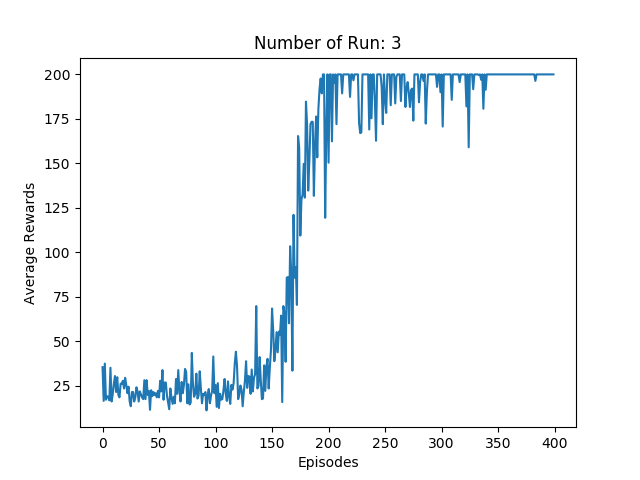
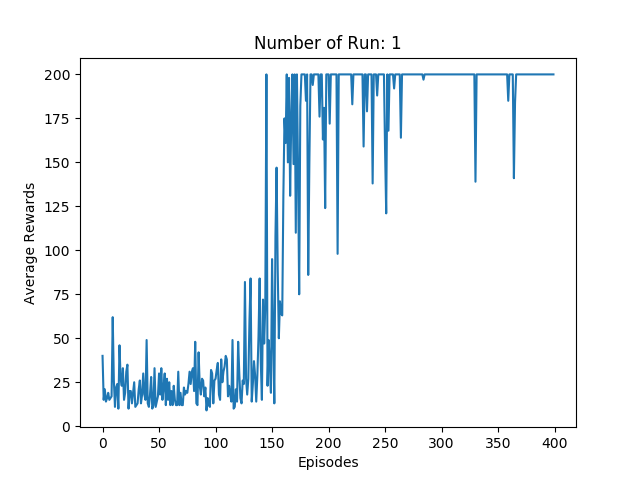
modify the reward function for cartpole

diff --git a/tensorforce/execution/runner.py b/tensorforce/execution/runner.py
@@ -23,121 +23,126 @@ from six.moves import xrange
 
 
 class Runner(object):
-    """
-    Simple runner for non-realtime single-process execution.
-    """
+	"""
+	Simple runner for non-realtime single-process execution.
+	"""
 
-    def __init__(self, agent, environment, repeat_actions=1, history=None):
-        """
-        Initialize a Runner object.
+	def __init__(self, agent, environment, repeat_actions=1, history=None):
+		"""
+		Initialize a Runner object.
 
-        Args:
-            agent:
-            environment:
-            repeat_actions:
-        """
-        self.agent = agent
-        self.environment = environment
-        self.repeat_actions = repeat_actions
+		Args:
+			agent:
+			environment:
+			repeat_actions:
+		"""
+		self.agent = agent
+		self.environment = environment
+		self.repeat_actions = repeat_actions
 
-        self.reset(history)
+		self.reset(history)
 
-    def reset(self, history=None):
-        # If history is empty, use default values in history.get().
-        if not history:
-            history = dict()
+	def reset(self, history=None):
+		# If history is empty, use default values in history.get().
+		if not history:
+			history = dict()
 
-        self.episode_rewards = history.get('episode_rewards', list())
-        self.episode_timesteps = history.get('episode_timesteps', list())
-        self.episode_times = history.get('episode_times', list())
+		self.episode_rewards = history.get('episode_rewards', list())
+		self.episode_timesteps = history.get('episode_timesteps', list())
+		self.episode_times = history.get('episode_times', list())
 
-    def run(
-        self,
-        timesteps=None,
-        episodes=None,
-        max_episode_timesteps=None,
-        deterministic=False,
-        episode_finished=None
-    ):
-        """
-        Runs the agent on the environment.
+	def run(
+		self,
+		timesteps=None,
+		episodes=None,
+		max_episode_timesteps=None,
+		deterministic=False,
+		episode_finished=None,
+		modify_rewards=False
+	):
+		"""
+		Runs the agent on the environment.
 
-        Args:
-            timesteps: Number of timesteps
-            episodes: Number of episodes
-            max_episode_timesteps: Max number of timesteps per episode
-            deterministic: Deterministic flag
-            episode_finished: Function handler taking a `Runner` argument and returning a boolean indicating
-                whether to continue execution. For instance, useful for reporting intermediate performance or
-                integrating termination conditions.
-        """
+		Args:
+			timesteps: Number of timesteps
+			episodes: Number of episodes
+			max_episode_timesteps: Max number of timesteps per episode
+			deterministic: Deterministic flag
+			episode_finished: Function handler taking a `Runner` argument and returning a boolean indicating
+				whether to continue execution. For instance, useful for reporting intermediate performance or
+				integrating termination conditions.
+		"""
 
-        # Keep track of episode reward and episode length for statistics.
-        self.start_time = time.time()
+		# Keep track of episode reward and episode length for statistics.
+		self.start_time = time.time()
 
-        self.agent.reset()
+		self.agent.reset()
 
-        self.episode = self.agent.episode
-        if episodes is not None:
-            episodes += self.agent.episode
+		self.episode = self.agent.episode
+		if episodes is not None:
+			episodes += self.agent.episode
 
-        self.timestep = self.agent.timestep
-        if timesteps is not None:
-            timesteps += self.agent.timestep
+		self.timestep = self.agent.timestep
+		if timesteps is not None:
+			timesteps += self.agent.timestep
 
-        while True:
-            episode_start_time = time.time()
+		while True:
+			episode_start_time = time.time()
 
-            self.agent.reset()
-            state = self.environment.reset()
-            episode_reward = 0
-            self.episode_timestep = 0
+			self.agent.reset()
+			state = self.environment.reset()
+			episode_reward = 0
+			self.episode_timestep = 0
 
-            while True:
-                action = self.agent.act(states=state, deterministic=deterministic)
+			while True:
+				action = self.agent.act(states=state, deterministic=deterministic)
 
-                if self.repeat_actions > 1:
-                    reward = 0
-                    for repeat in xrange(self.repeat_actions):
-                        state, terminal, step_reward = self.environment.execute(actions=action)
-                        reward += step_reward
-                        if terminal:
-                            break
-                else:
-                    state, terminal, reward = self.environment.execute(actions=action)
+				if self.repeat_actions > 1:
+					reward = 0
+					for repeat in xrange(self.repeat_actions):
+						state, terminal, step_reward = self.environment.execute(actions=action)
+						reward += step_reward
+						if terminal:
+							break
+				else:
+					state, terminal, reward = self.environment.execute(actions=action)
 
-                    # modify reward function for cartpole-v0
-                    x, _, theta, _ = state
-                    r1 = (2.4 - abs(x)) / 2.4 - 0.8
-                    r2 = (0.20944 - abs(theta)) / 0.20944 - 0.5
-                    reward_cont = r1 + r2
+					# modify reward function for cartpole-v0
+					if modify_rewards:
+						x, _, theta, _ = state
+						r1 = (2.4 - abs(x)) / 2.4 - 0.8
+						r2 = (0.20944 - abs(theta)) / 0.20944 - 0.5
+						reward_cont = r1 + r2
 
-                if max_episode_timesteps is not None and self.episode_timestep >= max_episode_timesteps - 1:
-                    terminal = True
+				if max_episode_timesteps is not None and self.episode_timestep >= max_episode_timesteps - 1:
+					terminal = True
 
-                self.agent.observe(terminal=terminal, reward=reward_cont)
+				if modify_rewards:
+					self.agent.observe(terminal=terminal, reward=reward_cont)
+				else:
+					self.agent.observe(terminal=terminal, reward=reward)
 
-                self.episode_timestep += 1
-                self.timestep += 1
-                episode_reward += reward
+				self.episode_timestep += 1
+				self.timestep += 1
+				episode_reward += reward
 
-                if terminal or self.agent.should_stop():  # TODO: should_stop also termina?
-                    break
+				if terminal or self.agent.should_stop():  # TODO: should_stop also termina?
+					break
 
-            time_passed = time.time() - episode_start_time
+			time_passed = time.time() - episode_start_time
 
-            self.episode_rewards.append(episode_reward)
-            self.episode_timesteps.append(self.episode_timestep)
-            self.episode_times.append(time_passed)
+			self.episode_rewards.append(episode_reward)
+			self.episode_timesteps.append(self.episode_timestep)
+			self.episode_times.append(time_passed)
 
-            self.episode += 1
+			self.episode += 1
 
-            if episode_finished and not episode_finished(self) or \
-                    (episodes is not None and self.agent.episode >= episodes) or \
-                    (timesteps is not None and self.agent.timestep >= timesteps) or \
-                    self.agent.should_stop():
-                # agent.episode / agent.timestep are globally updated
-                break
+			if episode_finished and not episode_finished(self) or \
+					(episodes is not None and self.agent.episode >= episodes) or \
+					(timesteps is not None and self.agent.timestep >= timesteps) or \
+					self.agent.should_stop():
+				# agent.episode / agent.timestep are globally updated
+				break
 
-        self.agent.close()
-        self.environment.close()
+		self.agent.close()
+		self.environment.close()

diff --git a/quickstart_ddqn.py b/quickstart_ddqn.py
@@ -27,7 +27,7 @@ os.environ['CUDA_VISIBLE_DEVICES'] = ""
 
 max_episodes = 400
 max_timesteps = 200
-num_of_runs = 3
+num_of_runs = 5
 cur_rwd = []
 aver_rwd = np.array((max_episodes, ))
 
@@ -96,7 +96,7 @@ for run_no in range(1, num_of_runs+1):
 		return True
 
 	# Start learning
-	runner.run(episodes=max_episodes, max_episode_timesteps=max_timesteps, episode_finished=episode_finished)
+	runner.run(episodes=max_episodes, max_episode_timesteps=max_timesteps, episode_finished=episode_finished, modify_rewards=True)
 
 	# Print statistics
 	print("Learning finished. Total episodes: {ep}. Average reward of last 100 episodes: {ar}.".format(
@@ -116,6 +116,6 @@ ax.plot(range(len(aver_rwd)), list(aver_rwd))
 ax.set_title('Number of Run: ' + str(num_of_runs))
 ax.set_xlabel('Episodes')
 ax.set_ylabel('Average Rewards')
-fig.savefig('/Users/txzhao/Desktop/thesis/tensorforce/figs/result.png')
+fig.savefig('/Users/txzhao/Desktop/tensorforce/figs/result.png')
 plt.close(fig)
 

diff --git a/quickstart_dqn.py b/quickstart_dqn.py
@@ -27,7 +27,7 @@ os.environ['CUDA_VISIBLE_DEVICES'] = ""
 
 max_episodes = 400
 max_timesteps = 200
-num_of_runs = 3
+num_of_runs = 1
 cur_rwd = []
 aver_rwd = np.array((max_episodes, ))
 
@@ -94,7 +94,7 @@ for run_no in range(1, num_of_runs+1):
 		return True
 
 	# Start learning
-	runner.run(episodes=max_episodes, max_episode_timesteps=max_timesteps, episode_finished=episode_finished)
+	runner.run(episodes=max_episodes, max_episode_timesteps=max_timesteps, episode_finished=episode_finished, modify_rewards=True)
 
 	# Print statistics
 	print("Learning finished. Total episodes: {ep}. Average reward of last 100 episodes: {ar}.".format(
@@ -114,6 +114,6 @@ ax.plot(range(len(aver_rwd)), list(aver_rwd))
 ax.set_title('Number of Run: ' + str(num_of_runs))
 ax.set_xlabel('Episodes')
 ax.set_ylabel('Average Rewards')
-fig.savefig('/Users/txzhao/Desktop/thesis/tensorforce/figs/result.png')
+fig.savefig('/Users/txzhao/Desktop/tensorforce/figs/result.png')
 plt.close(fig)
 
